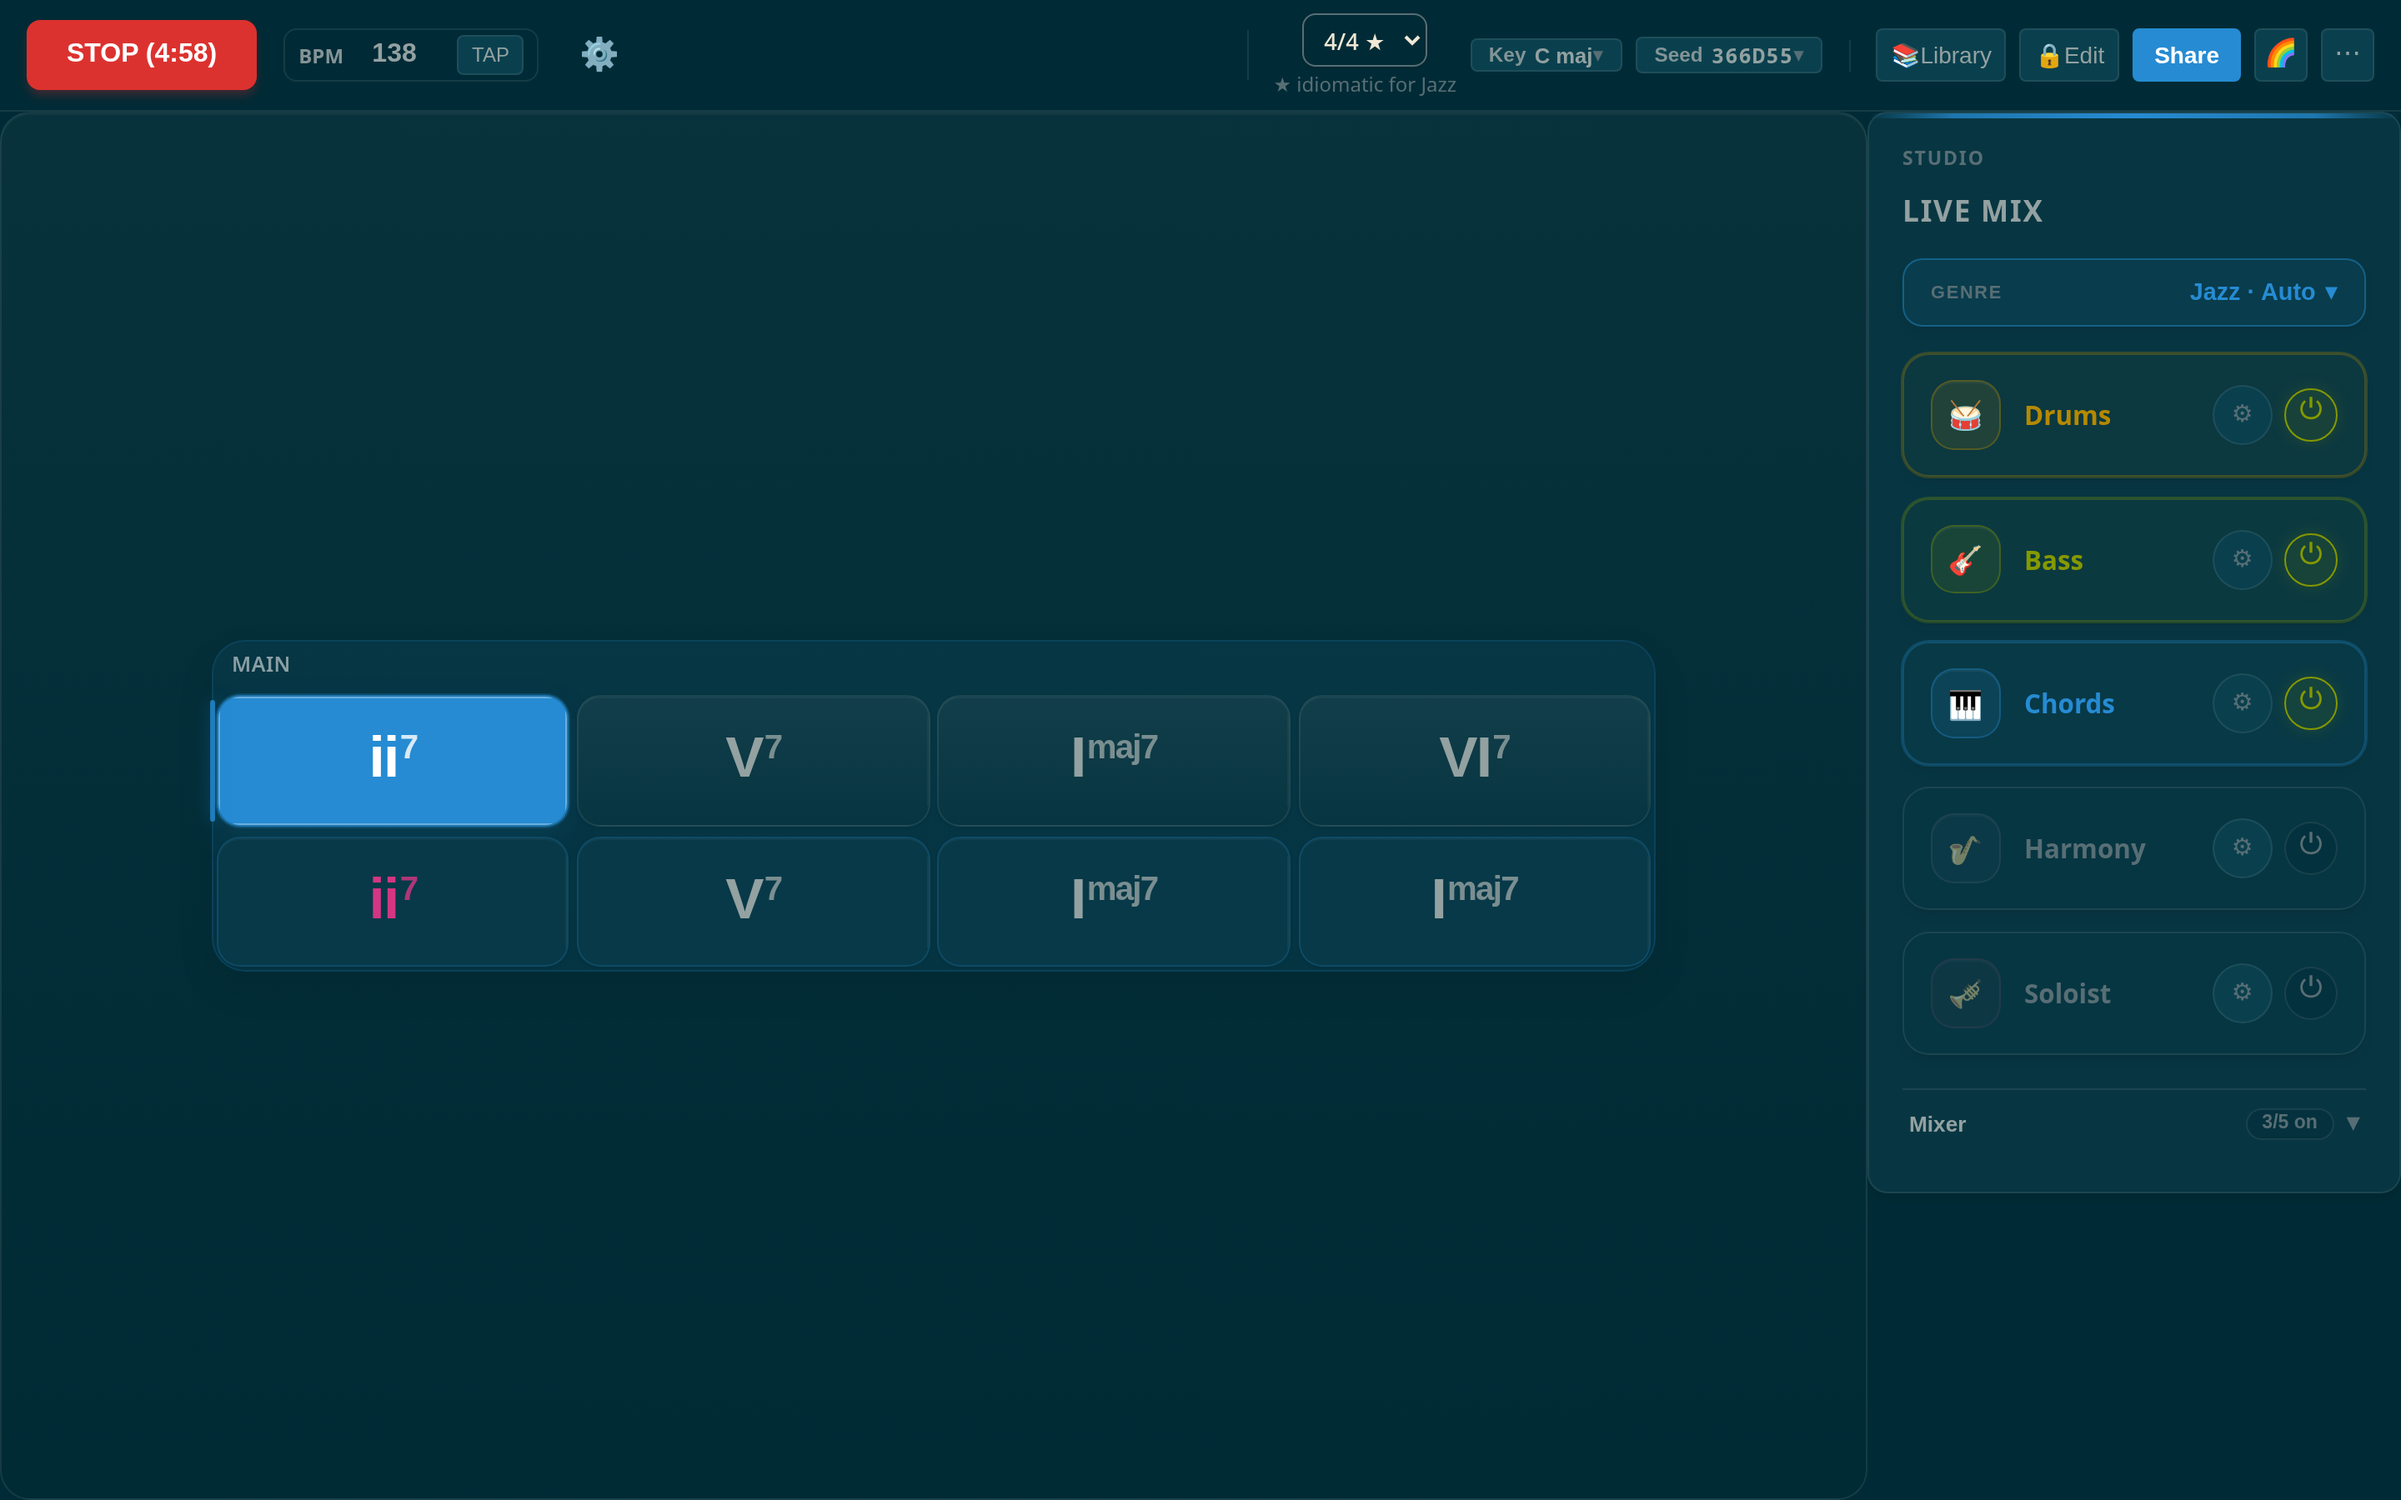
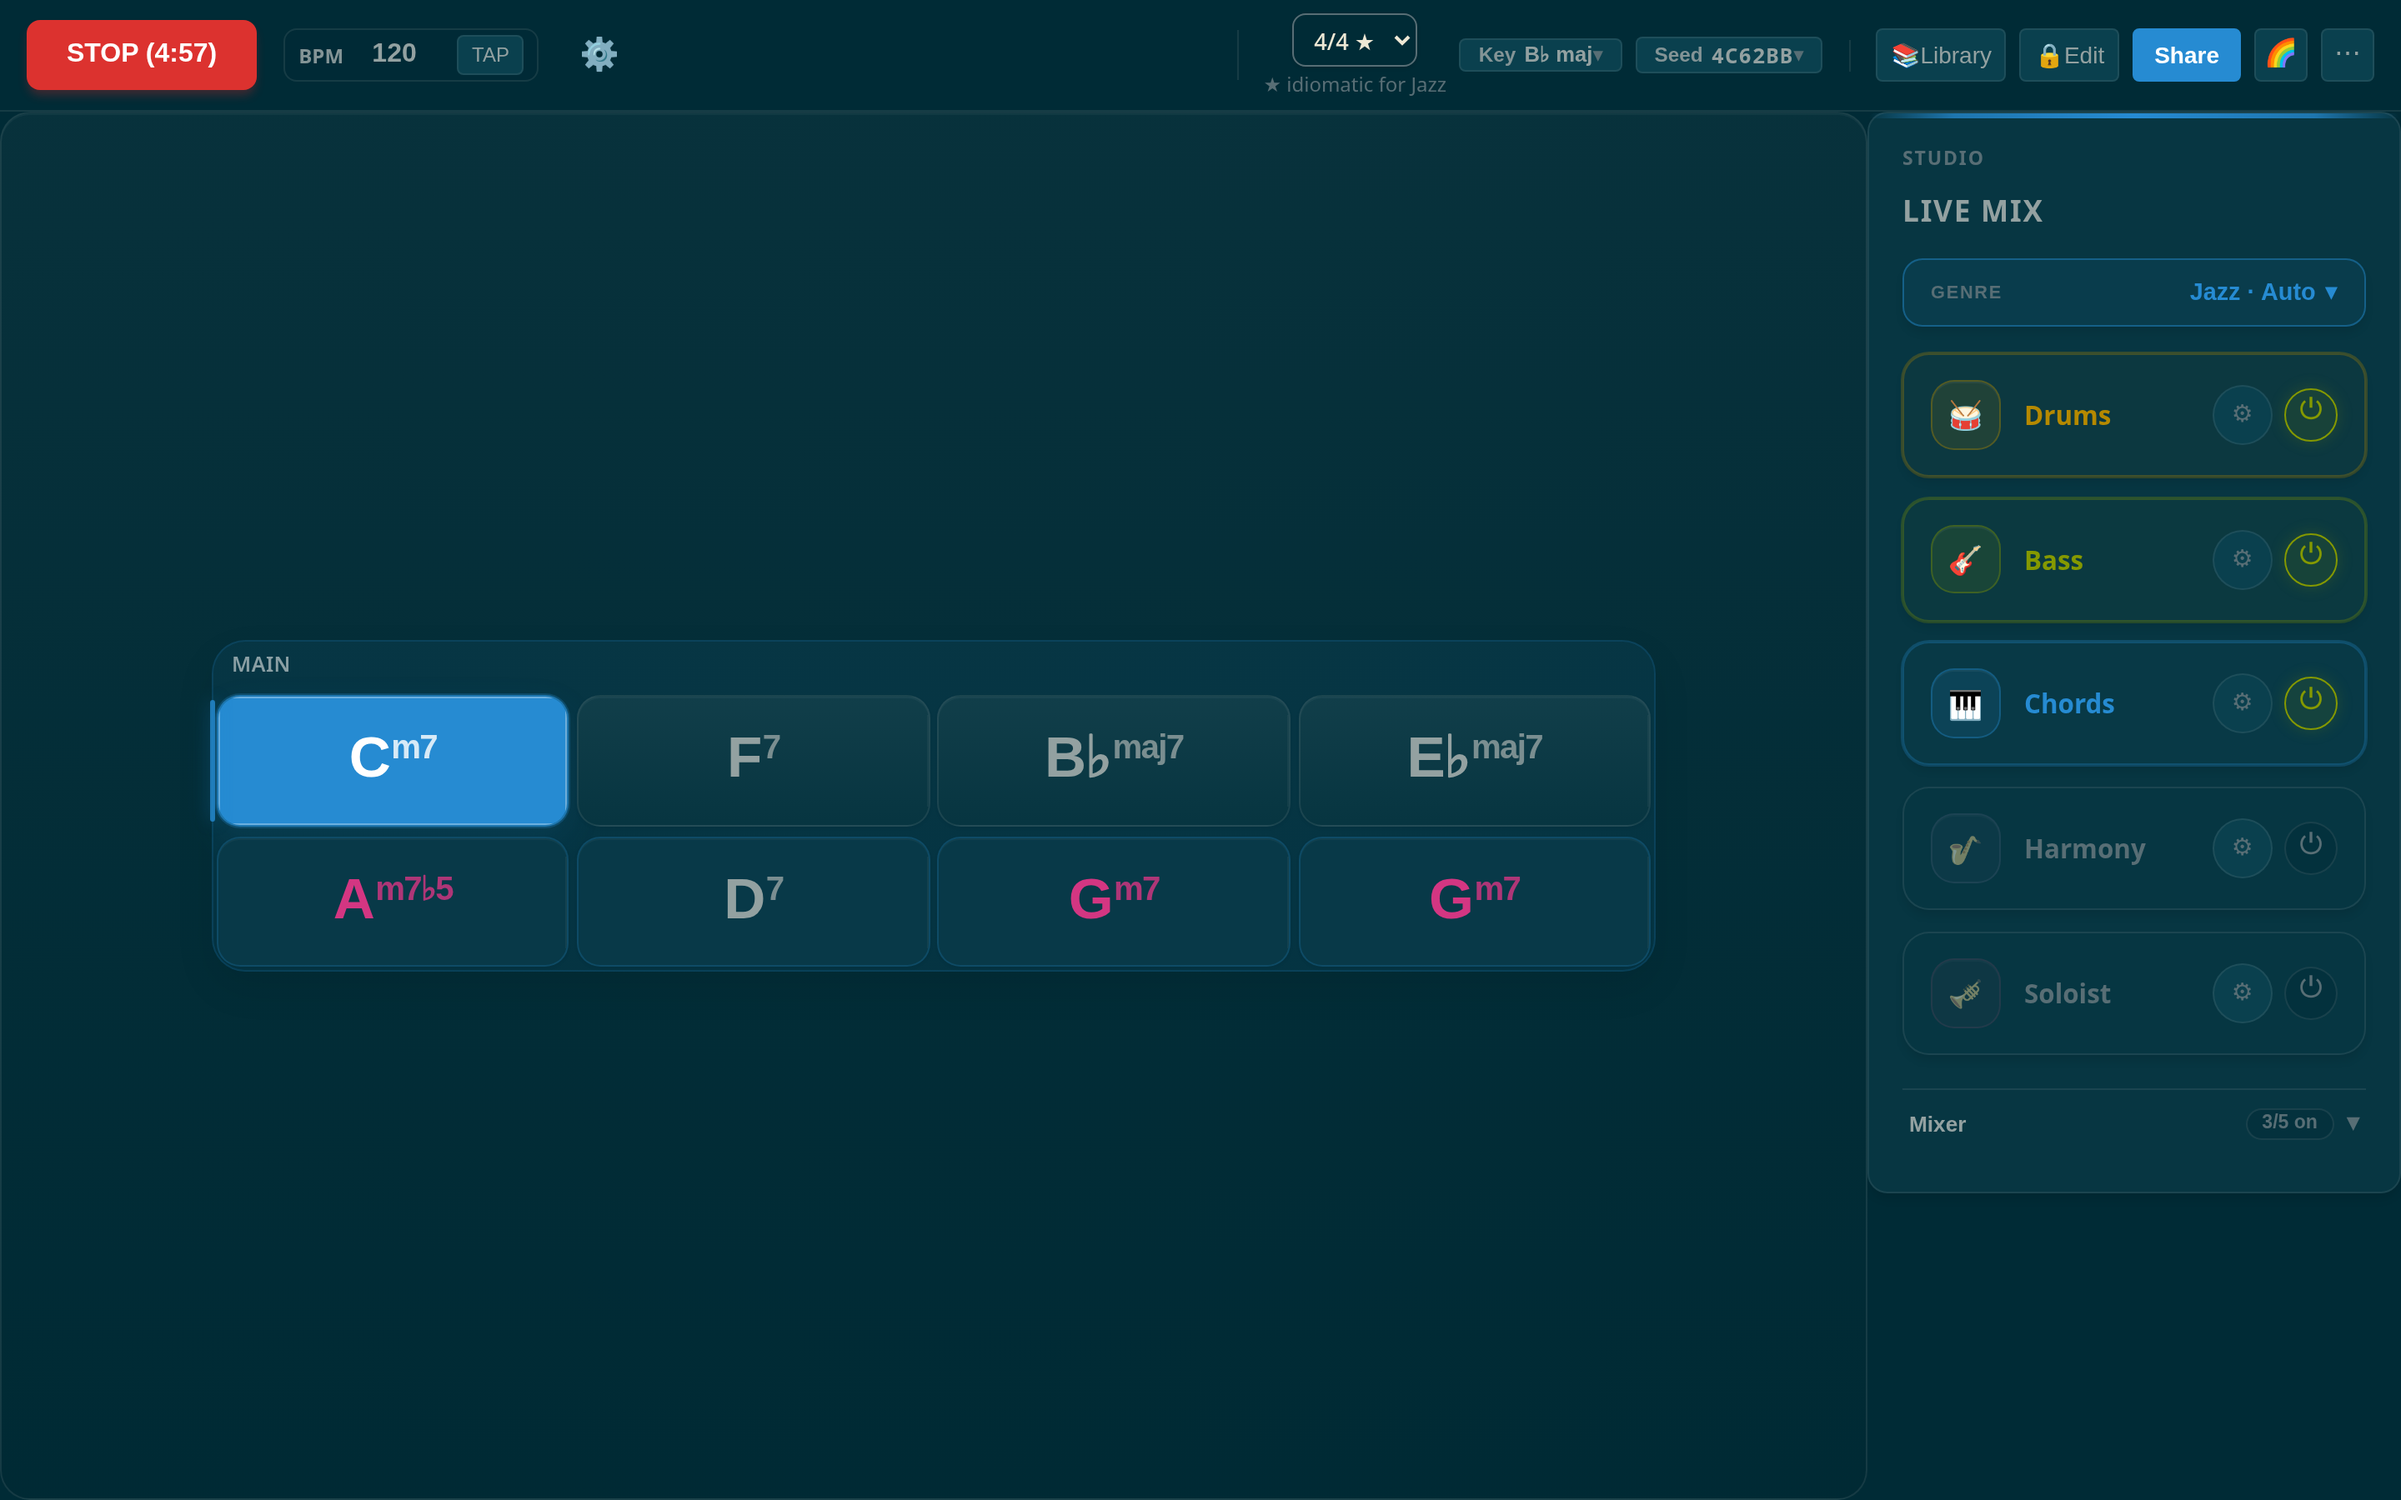
docs: add live URL + swap hero to an Autumn Leaves lead sheet
- README: link the public instance (ensemble.brndn.zip) in the intro and
  the hosting section; add "brndn" to the cspell dictionary.
- Hero: regenerate as the "Autumn Leaves" head in Bb with real chord
  names (notation=name) — a recognizable jazz standard reads better as
  the chart-first hero than a generic Roman-numeral vamp.
- capture-screenshots.ts: support a custom `prog`/`key`/`genre`/`notation`
  deep-link per shot (not just a named scene), so the hero can use an
  arbitrary progression.

diff --git a/scripts/capture-screenshots.ts b/scripts/capture-screenshots.ts
@@ -55,37 +55,59 @@ interface Shot {
     /** Output filename (written into docs/assets/readme/). */
     name: string;
     /** A scene id from DEFAULT_MIX_REPORT_SCENES that has a `sections` array. */
-    sceneId: string;
+    sceneId?: string;
+    /**
+     * A custom deep-link instead of a named scene — `prog` is required; the rest
+     * (`key`, `genre`, `bpm`, `notation`, …) are optional URL params handed
+     * straight to state-hydration's loadFromUrl(). `autoplay=1` is added for you.
+     */
+    params?: Record<string, string>;
     /** Desktop 1440×900 by default; pass a device profile for mobile shots. */
     device?: (typeof devices)[string];
     viewport?: { width: number; height: number };
 }
 
-// Single hero shot for now. The list is intentionally an array so future shots
-// (edit mode, the 🌈 visualizer overlay, a mobile view) are a one-line addition.
+// The list is intentionally an array so future shots (edit mode, the 🌈
+// visualizer overlay, a mobile view) are a one-line addition.
 const SHOTS: Shot[] = [
     {
         name: 'hero.png',
-        // Jazz head — a clean, recognizable lead sheet that reads well as the
-        // chart-first hero (topbar + locked chart + Live-mix rail).
-        sceneId: 'jazz-ride',
+        // "Autumn Leaves" head in Bb — a recognizable jazz-standard lead sheet
+        // with real chord names (notation=name). Fills the chart more than a
+        // short vamp while still reading clean as the chart-first hero.
+        params: {
+            prog: 'Cm7 | F7 | Bbmaj7 | Ebmaj7 | Am7b5 | D7 | Gm7 | Gm7',
+            key: 'Bb',
+            genre: 'Jazz',
+            bpm: '120',
+            int: '0.6',
+            notation: 'name',
+        },
         viewport: { width: 1440, height: 900 },
     },
 ];
 
-async function captureShot(browser: Browser, shot: Shot): Promise<void> {
+function buildShotUrl(shot: Shot): string {
+    if (shot.params) {
+        const params = new URLSearchParams(shot.params);
+        params.set('autoplay', '1');
+        return `${BASE_URL}?${params.toString()}`;
+    }
     const scene = DEFAULT_MIX_REPORT_SCENES.find((s) => s.id === shot.sceneId);
     if (!scene || !('sections' in scene)) {
         throw new Error(`Scene "${shot.sceneId}" not found or has no sections to deep-link.`);
     }
-
     const args: SceneArgs = {
-        scene: shot.sceneId,
+        scene: shot.sceneId ?? null,
         seed: null,
         baseUrl: BASE_URL,
         autoplay: true,
     };
-    const url = buildAuditionLink(scene as Parameters<typeof buildAuditionLink>[0], args);
+    return buildAuditionLink(scene as Parameters<typeof buildAuditionLink>[0], args);
+}
+
+async function captureShot(browser: Browser, shot: Shot): Promise<void> {
+    const url = buildShotUrl(shot);
 
     // Fresh context per shot → empty localStorage, so the URL scene fully
     // determines state (hydrateState() loads persisted state before applying

diff --git a/README.md b/README.md
@@ -4,6 +4,8 @@ Ensemble is a browser-based **virtual band and songwriting toolkit**. Sketch a c
 
 It is a PWA built for fast ideas: everything lives on one **chart-first surface**, so you write, perform, and visualize without ever leaving the page.
 
+**▶ Try it: [ensemble.brndn.zip](https://ensemble.brndn.zip/)**
+
 <p align="center">
   <img src="docs/assets/readme/hero.png" alt="The Ensemble chart-first surface: a lead sheet with the live transport, key/time controls, and the per-instrument Live mix rail." width="100%" />
 </p>
@@ -25,7 +27,7 @@ Ensemble turns a lead sheet into a playing band. The chord chart is always on sc
 
 A full walkthrough lives in the **in-app Manual** (open the `⋯` menu → **Manual**), and [`public/MANUAL.md`](public/MANUAL.md) includes a **Style Gallery** of one-click deep links to curated presets.
 
-> _Hosting a public instance? Add its URL here so visitors can try it without building._
+The public instance lives at **[ensemble.brndn.zip](https://ensemble.brndn.zip/)** — no install required.
 
 ---
 
